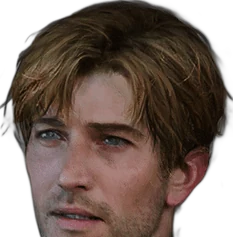
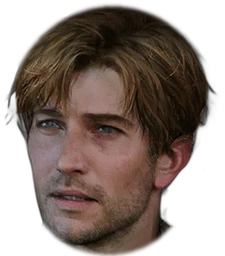
Version 4.80 : Silent Hill, les têtes de James et d'Eddie redécoupées (le bas du visage et le menton)
Claude-Session: https://claude.ai/code/session_01WYc8bcxVUTnPR8YQxCHawi

diff --git a/public/index.html b/public/index.html
@@ -2993,6 +2993,7 @@
 
   /* ===== Version de l'appli et nouveautés (la plus récente en premier) ===== */
   const VERSIONS = [
+    ["4.80", "15 octobre 2026", ["Silent Hill : les têtes de James et d'Eddie redécoupées, avec tout le bas du visage et le menton"]],
     ["4.79", "15 octobre 2026", ["Silent Hill : « Promise (Reprise) » quand on explore la caserne ; « White Noiz » reste la musique du bar (l'une s'efface quand l'autre monte)", "Silent Hill : pas de monstres pour le moment"]],
     ["4.78", "15 octobre 2026", ["Silent Hill : la vraie radio qui grésille quand on la ramasse, puis la sirène, et le brouillard qui nous enveloppe jusqu'au blanc… on se réveille dans le bar, la musique en continu"]],
     ["4.77", "15 octobre 2026", ["Silent Hill : la musique du réveil dans le bar (« White Noiz »)"]],

diff --git a/public/sw.js b/public/sw.js
@@ -1,7 +1,7 @@
 // Service worker : permet d'installer l'appli (Android, iPhone, PC) et de l'ouvrir sans réseau.
 // Les pages sont servies « réseau d'abord » (toujours la dernière version), les images « cache d'abord ».
 // Le courrier et le registre (/api/) ne sont jamais mis en cache.
-const CACHE = "caserne-nf-v299";
+const CACHE = "caserne-nf-v300";
 const SHELL = ["/", "/images/garde.jpg", "/images/pierre.jpg", "/images/escaliers/brique.jpg", "/manifest.webmanifest", "/icons/icon-192.png"];
 
 self.addEventListener("install", e => {
